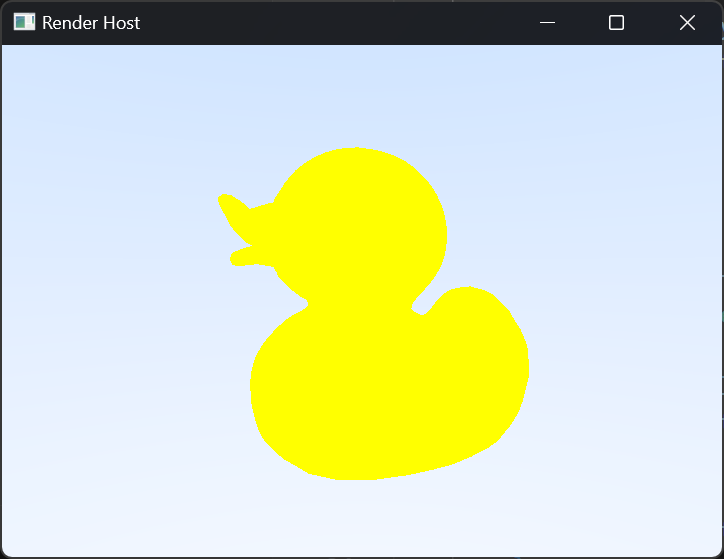
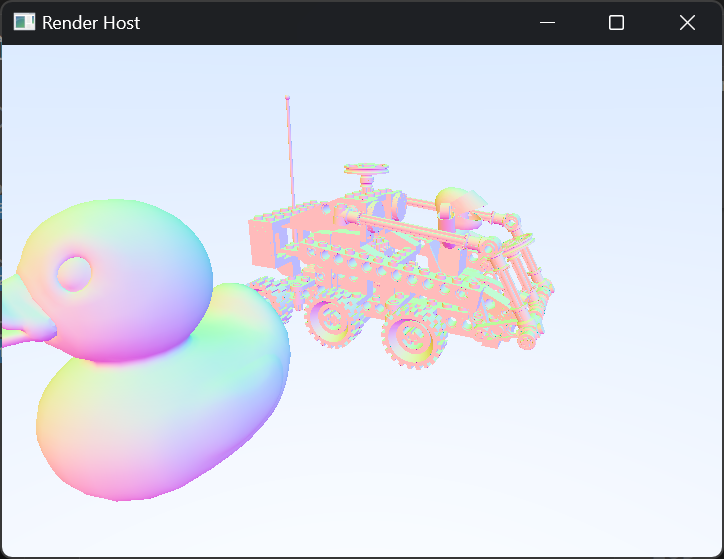
🎯 Hit data

diff --git a/apps/render-node/src/lib.rs b/apps/render-node/src/lib.rs
@@ -5,13 +5,13 @@ use std::sync::Arc;
 use anyhow::Result;
 use appearance::appearance_asset_database::AssetDatabase;
 use appearance::appearance_camera::Camera;
-use appearance::appearance_model::{Model, ModelNode};
+use appearance::appearance_model::Model;
 use appearance::appearance_render_loop::node::{Node, NodeRenderer};
 use appearance::appearance_world::visible_world_action::VisibleWorldActionType;
 use appearance::Appearance;
 use glam::{Mat4, Vec2, Vec3, Vec4, Vec4Swizzles};
 use tinybvh::{vec_helpers::Vec3Helpers, Ray};
-use tinybvh::{BlasInstance, Bvh, BvhBase};
+use tinybvh::{BlasInstance, Bvh, BvhBase, Intersection};
 use uuid::Uuid;
 
 struct CameraMatrices {
@@ -30,6 +30,7 @@ struct Renderer {
     camera: Camera,
 
     tlas: Bvh,
+    blas_idx_to_mesh_mapping: HashMap<u32, (String, u32, Mat4)>,
 }
 
 impl Renderer {
@@ -44,37 +45,52 @@ impl Renderer {
             model_assets,
             camera: Camera::default(),
             tlas: Bvh::new(),
+            blas_idx_to_mesh_mapping: HashMap::new(),
         }
     }
 
+    #[allow(clippy::too_many_arguments)]
     fn rebuild_tlas_rec(
-        node: &ModelNode,
+        model_asset_path: String,
+        model: &Model,
+        node: u32,
         parent_transform: Mat4,
         mut blas_idx: u32,
         blas_idx_offset: u32,
         blas_instances: &mut Vec<BlasInstance>,
         blasses: &mut Option<&mut Vec<Rc<dyn BvhBase>>>,
+        blas_idx_to_mesh_mapping: &mut HashMap<u32, (String, u32, Mat4)>,
     ) -> u32 {
-        let transform = parent_transform * node.transform.get_matrix();
+        let transform = parent_transform * model.nodes[node as usize].transform.get_matrix();
 
-        if let Some(mesh) = &node.mesh {
+        if let Some(mesh) = &model.nodes[node as usize].mesh {
             if let Some(blasses) = blasses {
                 blasses.push(mesh.blas.clone() as Rc<dyn BvhBase>);
             }
+
+            let inv_trans_transform = transform.inverse().transpose();
+
+            blas_idx_to_mesh_mapping.insert(
+                blas_instances.len() as u32,
+                (model_asset_path.clone(), node, inv_trans_transform),
+            );
 
             blas_instances.push(BlasInstance::new(transform, blas_idx_offset + blas_idx));
 
             blas_idx += 1;
         }
 
-        for child_node in &node.children {
+        for child_node in &model.nodes[node as usize].children {
             blas_idx = Self::rebuild_tlas_rec(
-                child_node,
+                model_asset_path.clone(),
+                model,
+                *child_node,
                 transform,
                 blas_idx,
                 blas_idx_offset,
                 blas_instances,
                 blasses,
+                blas_idx_to_mesh_mapping,
             );
         }
 
@@ -85,8 +101,10 @@ impl Renderer {
         let mut blasses = vec![];
         let mut blas_instances = vec![];
 
+        let mut blas_idx_to_mesh_mapping = HashMap::new();
+
         let mut blas_idx_offset = 0;
-        for (model, entity_uuids) in self.models.values_mut() {
+        for (asset_path, (model, entity_uuids)) in &mut self.models {
             for root_node in &model.root_nodes {
                 let mut entity_uuids_indices_to_remove = vec![];
 
@@ -97,21 +115,27 @@ impl Renderer {
                         // Assign blasses when on the last instance, also increment the blas idx offset
                         if i == entity_uuids.len() - 1 {
                             blas_idx_offset += Self::rebuild_tlas_rec(
-                                root_node,
+                                asset_path.clone(),
+                                model,
+                                *root_node,
                                 *instance_transform,
                                 0,
                                 blas_idx_offset,
                                 &mut blas_instances,
                                 &mut Some(&mut blasses),
+                                &mut blas_idx_to_mesh_mapping,
                             );
                         } else {
                             Self::rebuild_tlas_rec(
-                                root_node,
+                                asset_path.clone(),
+                                model,
+                                *root_node,
                                 *instance_transform,
                                 0,
                                 blas_idx_offset,
                                 &mut blas_instances,
                                 &mut None,
+                                &mut blas_idx_to_mesh_mapping,
                             );
                         };
                     } else {
@@ -128,6 +152,52 @@ impl Renderer {
         }
 
         self.tlas.build_with_blas_instances(blas_instances, blasses);
+        self.blas_idx_to_mesh_mapping = blas_idx_to_mesh_mapping;
+    }
+
+    fn get_hit_data(&self, intersection: &Intersection) -> (Vec3, Vec3, Option<Vec2>) {
+        let blas_instance = intersection.inst;
+        let instance_mapping = self.blas_idx_to_mesh_mapping.get(&blas_instance).unwrap();
+        let model = &self.models.get(&instance_mapping.0).unwrap().0;
+        let mesh = model.nodes[instance_mapping.1 as usize]
+            .mesh
+            .as_ref()
+            .unwrap();
+
+        let barycentrics = Vec3::new(
+            1.0 - intersection.u - intersection.v,
+            intersection.u,
+            intersection.v,
+        );
+
+        let i0 = mesh.indices[(intersection.prim * 3) as usize] as usize;
+        let i1 = mesh.indices[(intersection.prim * 3 + 1) as usize] as usize;
+        let i2 = mesh.indices[(intersection.prim * 3 + 2) as usize] as usize;
+
+        let p0 = mesh.vertex_positions[i0];
+        let p1 = mesh.vertex_positions[i1];
+        let p2 = mesh.vertex_positions[i2];
+        let position = p0 * barycentrics.x + p1 * barycentrics.y + p2 * barycentrics.z;
+
+        let n0 = mesh.vertex_normals[i0];
+        let n1 = mesh.vertex_normals[i1];
+        let n2 = mesh.vertex_normals[i2];
+        let normal = n0 * barycentrics.x + n1 * barycentrics.y + n2 * barycentrics.z;
+        let inv_trans_transform = instance_mapping.2;
+        let normal = (inv_trans_transform * Vec4::from((normal, 1.0)))
+            .xyz()
+            .normalize();
+
+        let tex_coord = if !mesh.vertex_tex_coords.is_empty() {
+            let t0 = mesh.vertex_tex_coords[i0];
+            let t1 = mesh.vertex_tex_coords[i1];
+            let t2 = mesh.vertex_tex_coords[i2];
+            Some(t0 * barycentrics.x + t1 * barycentrics.y + t2 * barycentrics.z)
+        } else {
+            None
+        };
+
+        (position.xyz(), normal, tex_coord)
     }
 
     fn render_pixel(&mut self, uv: &Vec2, camera_matrices: &CameraMatrices) -> Vec3 {
@@ -140,7 +210,9 @@ impl Renderer {
 
         self.tlas.intersect(&mut ray);
         if ray.hit.t != 1e30 {
-            return Vec3::new(1.0, 1.0, 0.0);
+            let (_position, normal, _tex_coord) = self.get_hit_data(&ray.hit);
+
+            return normal * 0.5 + 0.5;
         }
 
         let a = 0.5 * (ray.D.y() + 1.0);

diff --git a/crates/appearance-model/src/asset.rs b/crates/appearance-model/src/asset.rs
@@ -11,15 +11,16 @@ impl Asset for Model {
         let (document, buffers, images) = gltf::import_slice(&data).expect("Failed to load model.");
 
         let mut root_nodes = Vec::new();
+        let mut nodes = Vec::new();
+
         if let Some(scene) = document.default_scene() {
             for root_node in scene.nodes() {
-                root_nodes.push(process_nodes_recursive(
-                    &document, &root_node, &buffers, &images,
-                ));
+                root_nodes.push(nodes.len() as u32);
+                process_nodes_recursive(&document, &root_node, &buffers, &images, &mut nodes);
             }
         }
 
-        Model { root_nodes }
+        Model { root_nodes, nodes }
     }
 }
 
@@ -28,15 +29,16 @@ fn process_nodes_recursive(
     node: &gltf::Node,
     buffers: &[gltf::buffer::Data],
     images: &[gltf::image::Data],
-) -> ModelNode {
-    let mut root_node = process_node(document, node, buffers, images);
+    nodes: &mut Vec<ModelNode>,
+) {
+    nodes.push(process_node(document, node, buffers, images));
+    let node_idx = nodes.len() - 1;
 
     for child in node.children() {
-        root_node
-            .children
-            .push(process_nodes_recursive(document, &child, buffers, images));
+        let child_idx = nodes.len() as u32;
+        nodes[node_idx].children.push(child_idx);
+        process_nodes_recursive(document, &child, buffers, images, nodes);
     }
-    root_node
 }
 
 fn process_node(

diff --git a/crates/appearance-model/src/lib.rs b/crates/appearance-model/src/lib.rs
@@ -8,11 +8,12 @@ pub struct ModelNode {
     pub name: String,
 
     pub transform: Transform,
-    pub children: Vec<ModelNode>,
+    pub children: Vec<u32>,
 
     pub mesh: Option<Mesh>,
 }
 
 pub struct Model {
-    pub root_nodes: Vec<ModelNode>,
+    pub root_nodes: Vec<u32>,
+    pub nodes: Vec<ModelNode>,
 }
